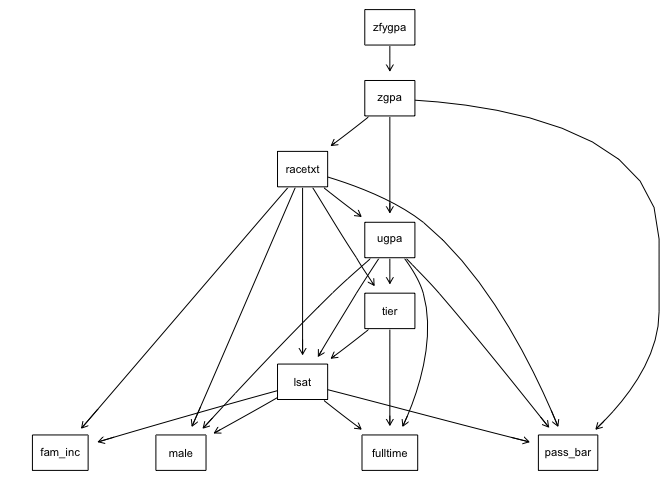
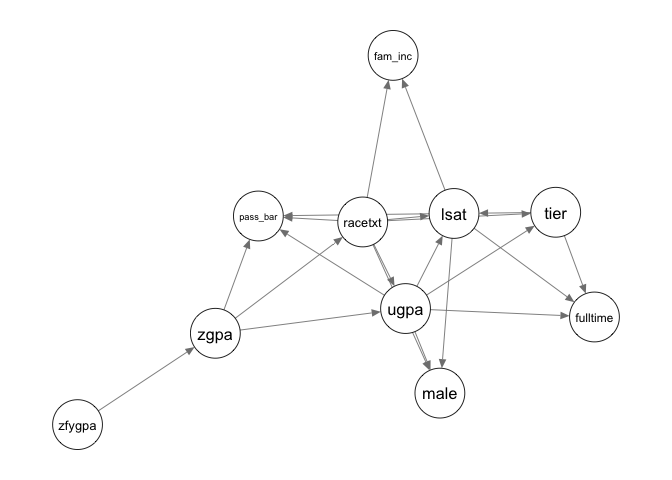
update

diff --git a/README.md b/README.md
@@ -22,8 +22,7 @@ academic literature.” ArXiv 24….
         year = {2024}
       }
 
-Go to <https://manueleleonelli.shinyapps.io/bnRep/> to explore the
-repository online!
+Go to (link here) to explore the repository online!
 
 ## Contribution
 
@@ -60,10 +59,10 @@ package.
 
 ``` r
 # Install stable version from CRAN:
-install.packages("stagedtrees")
+install.packages("bnRep")
 
 # Or the development version from GitHub:
-remotes::install_github("stagedtrees/stagedtrees")
+remotes::install_github("manueleleonelli/bnRep")
 ```
 
 ### Usage
@@ -75,8 +74,9 @@ in the environment simply call `data(lawschool)` and to then plot it
 ``` r
 library(bnRep)
 library(bnlearn)
+library(qgraph)
 data("lawschool")
-graphviz.plot(bn.net(lawschool))
+qgraph::qgraph(bn.net(lawschool))
 ```
 
 <img src="man/figures/README-unnamed-chunk-3-1.png" width="50%" />
@@ -94,7 +94,7 @@ repository:
 
 - `bnRep_app`: a Shiny app to interactively explore `bnRep_summary` and
   filter the networks according to various criteria. The app is also
-  available online at <https://manueleleonelli.shinyapps.io/bnRep/>.
+  available online at (link here).
 
 Here’s the columns of `bnRep_summary`:
 
